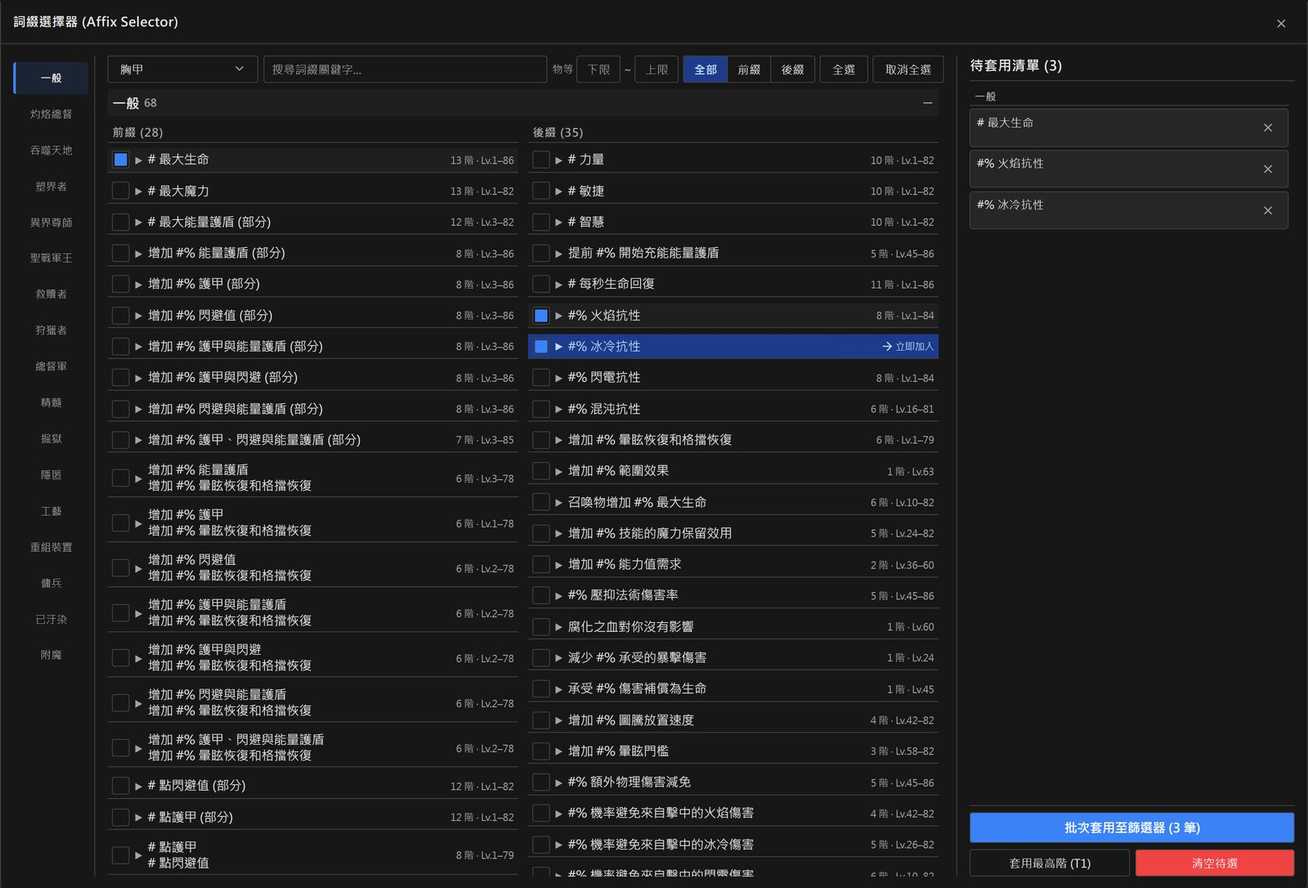
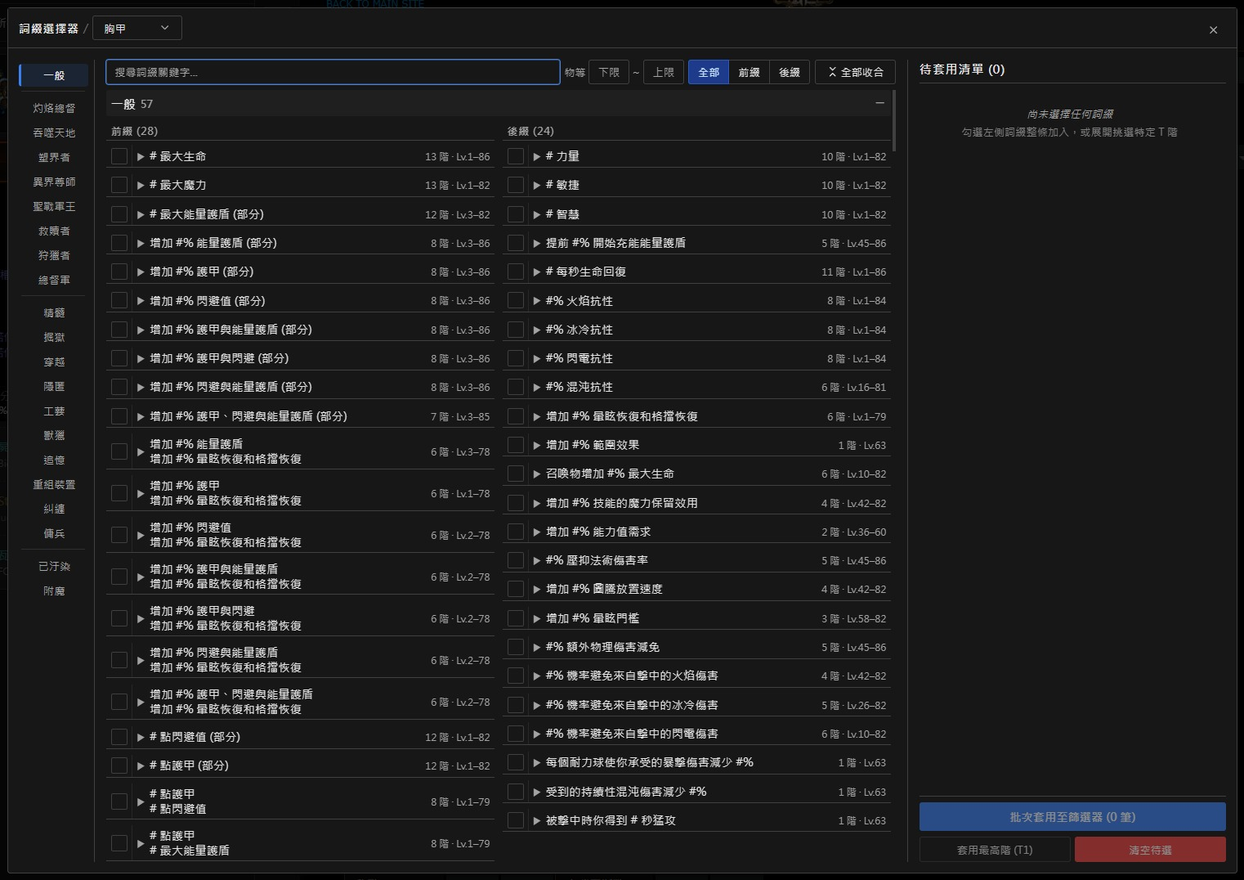
docs(poexd): add v1.10-v1.12 screenshots and guide sections

diff --git a/poexd/index.html b/poexd/index.html
@@ -4,7 +4,7 @@
 <meta charset="utf-8">
 <meta name="viewport" content="width=device-width, initial-scale=1">
 <title>PoeXD Extension 使用教學 — yehshune</title>
-<meta name="description" content="PoeXD Extension 完整使用教學：安裝、線上搜尋主控台、常用詞綴群組、詞綴篩選與 T 階、PoB 購物清單、書籤管理與市集漢化。">
+<meta name="description" content="PoeXD Extension 完整使用教學：安裝、線上搜尋主控台、搜尋結果看板、釘選物品、常用詞綴群組、詞綴篩選與 T 階、PoB 購物清單、書籤管理、11 款外觀主題與市集漢化。">
 <meta property="og:title" content="PoeXD Extension 使用教學">
 <meta property="og:description" content="Path of Exile 官方交易市集輔助擴充套件的完整使用說明。">
 <meta property="og:image" content="https://yehshune.github.io/assets/poexd/promo-marquee-1400x560.png">
@@ -65,12 +65,12 @@
         <span class="meta-code">03 / LIVE SEARCH</span>
         <strong>線上搜尋主控台</strong>
       </a>
-      <a href="#affix">
-        <span class="meta-code">05 / AFFIX &amp; POB</span>
-        <strong>詞綴選擇與 T 階</strong>
+      <a href="#result-board">
+        <span class="meta-code">07 / RESULT BOARD</span>
+        <strong>搜尋結果看板</strong>
       </a>
       <a href="#translation">
-        <span class="meta-code">09 / LOCALIZE</span>
+        <span class="meta-code">11 / LOCALIZE</span>
         <strong>國際服市集漢化</strong>
       </a>
     </div>
@@ -81,7 +81,7 @@
   <nav class="toc" aria-label="本頁目錄">
     <div class="toc-head">
       <span>MANUAL INDEX</span>
-      <span>11 節</span>
+      <span>13 節</span>
     </div>
     <div class="toc-progress" aria-hidden="true"><div class="toc-progress-bar" id="toc-progress-bar"></div></div>
     <ol>
@@ -91,11 +91,13 @@
       <li><a href="#stat-groups"><span class="num">04</span>常用詞綴與預覽</a></li>
       <li><a href="#affix"><span class="num">05</span>詞綴篩選與 T 階</a></li>
       <li><a href="#results"><span class="num">06</span>搜尋結果強化</a></li>
-      <li><a href="#pob"><span class="num">07</span>PoB 購物清單</a></li>
-      <li><a href="#bookmarks"><span class="num">08</span>書籤與歷史紀錄</a></li>
-      <li><a href="#translation"><span class="num">09</span>市集漢化</a></li>
-      <li><a href="#settings"><span class="num">10</span>設定與快捷鍵</a></li>
-      <li><a href="#faq"><span class="num">11</span>常見問題</a></li>
+      <li><a href="#result-board"><span class="num">07</span>搜尋結果看板</a></li>
+      <li><a href="#pinned"><span class="num">08</span>釘選物品</a></li>
+      <li><a href="#pob"><span class="num">09</span>PoB 購物清單</a></li>
+      <li><a href="#bookmarks"><span class="num">10</span>書籤與歷史紀錄</a></li>
+      <li><a href="#translation"><span class="num">11</span>市集漢化</a></li>
+      <li><a href="#settings"><span class="num">12</span>設定與外觀主題</a></li>
+      <li><a href="#faq"><span class="num">13</span>常見問題</a></li>
     </ol>
   </nav>
 
@@ -140,9 +142,9 @@
       <div class="split-doc">
         <div>
           <ol class="steps">
-            <li>開啟 <a href="https://www.pathofexile.com/trade" target="_blank" rel="noopener noreferrer">官方交易網站 ↗</a>（台服、國服也支援），頁面左側會出現 PoeXD 側邊工具列（可在設定的「面板位置」改到右側）；收合時只會留下一個 PoeXD 標誌。</li>
-            <li>工具列的分頁分別對應書籤、歷史紀錄、常用詞綴群組、PoB 購物清單與線上搜尋主控台；點分頁即可切換。</li>
-            <li>點瀏覽器右上角的 PoeXD 圖示，可個別開關十項功能模組（T 階快捷按鈕、詞綴選擇器、價格換算、市集漢化等）。</li>
+            <li>開啟 <a href="https://www.pathofexile.com/trade" target="_blank" rel="noopener noreferrer">官方交易網站 ↗</a>（台服、國服也支援），頁面左側會出現 PoeXD 側邊工具列（可在設定的「面板位置」改到右側）；收合時只會留下一個可上下拖曳的 PoeXD 標誌。</li>
+            <li>首次安裝展開側邊欄會自動開始導覽；工具列的分頁分別對應書籤、歷史紀錄、常用詞綴群組、PoB 購物清單、釘選物品、搜尋結果看板與線上搜尋主控台。</li>
+            <li>在交易頁點擊瀏覽器右上角的 PoeXD 圖示可直接切換顯示／收合側邊欄；各項功能模組可在側邊欄的「系統設定 → 側邊欄模組」中個別開關（非交易頁點擊圖示則提供各服市集快速連結）。</li>
           </ol>
           <figure class="shot">
             <button type="button" class="shot-btn" data-lightbox-src="../assets/poexd/collapsed.jpg" data-lightbox-alt="交易網站左側縮起的 PoeXD 標誌按鈕" data-lightbox-caption="工具列收合時僅保留側邊標誌按鈕，點擊即可展開。">
@@ -153,10 +155,10 @@
         </div>
 
         <figure class="shot" style="margin:0">
-          <button type="button" class="shot-btn" data-lightbox-src="../assets/poexd/popup.jpg" data-lightbox-alt="PoeXD 模組開關面板，列出 T 階快捷按鈕、詞綴選擇器、價格換算、市集漢化等開關" data-lightbox-caption="點瀏覽器右上角的 PoeXD 擴充套件圖示，可個別開關功能模組。">
-            <img src="../assets/poexd/popup.jpg" width="300" height="598" alt="PoeXD 模組開關面板，列出 T 階快捷按鈕、詞綴選擇器、價格換算、市集漢化等開關">
+          <button type="button" class="shot-btn" data-lightbox-src="../assets/poexd/settings.jpg" data-lightbox-alt="PoeXD 系統設定頁，可透過分類導覽或搜尋快速調整市集漢化、外觀主題與功能模組開關" data-lightbox-caption="在側邊欄「系統設定」可搜尋設定並個別開關功能模組。">
+            <img src="../assets/poexd/settings.jpg" width="442" height="740" alt="PoeXD 系統設定頁，可透過分類導覽或搜尋快速調整市集漢化、外觀主題與功能模組開關">
           </button>
-          <figcaption><span>點擴充套件圖示可個別開關功能模組。</span><span class="shot-zoom-hint">點擊放大</span></figcaption>
+          <figcaption><span>在側邊欄「系統設定」可個別開關功能模組。</span><span class="shot-zoom-hint">點擊放大</span></figcaption>
         </figure>
       </div>
     </section>
@@ -164,12 +166,12 @@
     <section id="live-search">
       <span class="meta-code sec-num">03 / LIVE SEARCH CONSOLE</span>
       <h2>線上搜尋主控台</h2>
-      <p>在單一分頁集中監聽多組即時搜尋（Live Search），斷線自動重連，有新物品上架時即時顯示並可播放提示音。</p>
+      <p>在單一分頁集中監聽多組即時搜尋（Live Search），斷線自動重連，有新物品上架時即時顯示，並支援官方提示音與背景桌面通知。</p>
       <ol class="steps">
         <li>開啟線上搜尋主控台，可「從書籤挑選」要監聽的搜尋，或「輸入搜尋網址」直接貼上交易網站的搜尋連結。</li>
-        <li>連線會依書籤資料夾分組，可批次啟用或停止；點選單一連線則能只看該組結果。</li>
-        <li>主控台會即時顯示官方 API 速率狀態，避免監聽太多組而被暫時限制連線。</li>
-        <li>關掉瀏覽器再打開時，可一鍵恢復上次的連線組合。</li>
+        <li>連線會依書籤資料夾分組並顯示命中數，可批次啟用或停止；每筆結果卡片會標示來源連線，點擊來源標籤或單一連線就能只看該組結果，也能一鍵清空結果區而不中斷監聽。</li>
+        <li>在主控台設定可直接調整官方通知音效、音量或上傳自訂音效檔（上限 1 MB），並可開啟「背景桌面通知」（每個監聽項目獨立一張通知卡，短時間多筆自動合併，點擊即可切回主控台）。</li>
+        <li>主控台會即時顯示官方 API 速率狀態，避免監聽太多組而被暫時限制連線；重開瀏覽器可一鍵恢復上次的連線組合。</li>
       </ol>
       <figure class="shot">
         <button type="button" class="shot-btn" data-lightbox-src="../assets/poexd/live-search.jpg" data-lightbox-alt="線上搜尋主控台：左側是各組即時搜尋連線，右側是即時出現的物品結果" data-lightbox-caption="線上搜尋主控台：左側管理多組連線與速率，右側集中瀏覽新上架道具。">
@@ -189,7 +191,7 @@
       <ol class="steps">
         <li>在工具列打開「常用詞綴群組」，新增群組並加入需要的詞綴與數值門檻。</li>
         <li>在任何搜尋頁面點選群組即可疊加到目前篩選；套錯了可以一鍵復原。</li>
-        <li>群組支援分享碼與備份檔匯入、匯出，方便與朋友交換或換電腦時遷移。</li>
+        <li>群組支援原地重新命名、分享碼與備份檔匯入／匯出（匯入前提供勾選預覽），方便與朋友交換或換電腦時遷移。</li>
       </ol>
       <figure class="shot">
         <button type="button" class="shot-btn" data-lightbox-src="../assets/poexd/stat-groups.jpg" data-lightbox-alt="常用詞綴群組面板，右側篩選器已疊加總抗性群組" data-lightbox-caption="常用詞綴群組：左邊點「疊加套用」，右側官方篩選器立即多出整組條件。">
@@ -213,20 +215,20 @@
       <h2>詞綴篩選與 T 階</h2>
       <h3>詞綴選擇器</h3>
       <ol class="steps">
-        <li>在官方篩選群組旁打開詞綴選擇器，選擇物品類別，並可用「物等」區間過濾可出現詞綴。</li>
-        <li>依前綴／後綴與詞綴分類瀏覽，勾選想要的項目加入右側「待套用清單」。</li>
+        <li>在官方篩選群組旁打開詞綴選擇器，從標題列切換物品類別（含「最近使用」，並可同步套用到官方物品種類），也能用「物等」區間過濾可出現詞綴。</li>
+        <li>依前綴／後綴與詞綴來源分類瀏覽（支援全部展開／收合與全選符合項目），勾選想要的項目加入右側「待套用清單」。</li>
         <li>確認後一次批次寫入官方篩選器，不必一條一條手動輸入關鍵字。</li>
       </ol>
 
       <h3>T 階快捷按鈕</h3>
-      <p>篩選欄旁的 <code>T</code> 按鈕可直接選擇階級，自動帶入該階級數值範圍；同一詞綴在該物品類別有多種來源時，可在左側切換詞綴分組。詞綴亦支援拖曳排序或移至其他篩選群組。<span class="nowrap">PoE 2</span> 的碑牌、換界石與範圍珠寶同樣支援。</p>
+      <p>篩選欄旁的 <code>T</code> 按鈕可直接點擊單一階級或複選階級範圍、點數值快速填入；同一詞綴在該物品類別有多種來源時，可在左側切換詞綴分組。支援 <span class="nowrap">PoE 1</span> 追憶、穿越、糾纏與異界固定詞，以及 <span class="nowrap">PoE 2</span> 的碑牌、換界石、範圍珠寶與聖域詞綴；詞綴亦可拖曳排序或移至其他篩選群組。</p>
 
       <div class="shot-pair is-landscape">
         <figure class="shot">
-          <button type="button" class="shot-btn" data-lightbox-src="../assets/poexd/affix.jpg" data-lightbox-alt="詞綴選擇器：左側分類，中間是前綴與後綴清單，右側是待套用清單" data-lightbox-caption="詞綴選擇器：依物品類別與物等瀏覽前綴／後綴並批次套用。">
-            <img src="../assets/poexd/affix.jpg" width="800" height="543" alt="詞綴選擇器：左側分類，中間是前綴與後綴清單，右側是待套用清單">
+          <button type="button" class="shot-btn" data-lightbox-src="../assets/poexd/affix.jpg" data-lightbox-alt="詞綴選擇器：標題列可切換物品類別，左側分類，中間是前綴與後綴清單，右側是待套用清單" data-lightbox-caption="詞綴選擇器：依物品類別與物等瀏覽前綴／後綴並批次套用。">
+            <img src="../assets/poexd/affix.jpg" width="1522" height="1076" alt="詞綴選擇器：標題列可切換物品類別，左側分類，中間是前綴與後綴清單，右側是待套用清單">
           </button>
-          <figcaption><span>詞綴選擇器。</span><span class="shot-zoom-hint">點擊放大</span></figcaption>
+          <figcaption><span>詞綴選擇器（支援標題列類別切換與最新詞綴來源）。</span><span class="shot-zoom-hint">點擊放大</span></figcaption>
         </figure>
         <figure class="shot">
           <button type="button" class="shot-btn" data-lightbox-src="../assets/poexd/tier.jpg" data-lightbox-alt="胸甲的「+# 最大生命」T 階選單：左側可切換四種詞綴分組，右側列出 T1 到 T11 的數值範圍" data-lightbox-caption="T 階選單：同一個詞綴有多種來源時（例如胸甲生命），左側可切換分組。">
@@ -261,13 +263,61 @@
       </figure>
     </section>
 
+    <section id="result-board">
+      <span class="meta-code sec-num">07 / RESULT BOARD</span>
+      <h2>搜尋結果看板</h2>
+      <p>在一般搜尋頁把目前取得的結果集中到側邊欄（從側邊欄分頁或官方結果數旁的「看板」按鈕開啟），不會改動官方結果列表。</p>
+      <ol class="steps">
+        <li><strong>物品清單</strong>：依關鍵字、價格區間、隱藏已售出與只看可直購篩選並排序，點一下即可捲動定位並高亮官方結果列；可直接前往藏身處或釘選。</li>
+        <li><strong>賣家清單與倉庫分組</strong>：依可直購件數與換算總價排序，找出能在同一間藏身處一次買齊多件的賣家，並依倉庫分頁分組標出格位座標。</li>
+        <li><strong>倉庫搜尋 regex</strong>：勾選同一賣家要買的物品後顯示小計，一鍵複製 <code>regex</code> 貼進對方倉庫搜尋框，同時標出所有目標物品（無法區分時會提示警告）。</li>
+        <li><strong>批次載入與自動重整</strong>：透過官方「載入更多」逐批（可記憶每次筆數）或一次載入全部（上限 100 筆）；前往藏身處連結過期時會自動重新整理再前往。</li>
+      </ol>
+      <div class="shot-pair is-portrait">
+        <figure class="shot">
+          <button type="button" class="shot-btn" data-lightbox-src="../assets/poexd/result-board-items.jpg" data-lightbox-alt="搜尋結果看板的物品清單：列出本次搜尋取得的物品、換算價格與篩選排序控制" data-lightbox-caption="搜尋結果看板（物品清單）：集中篩選、排序並一鍵定位到官方結果列。">
+            <img src="../assets/poexd/result-board-items.jpg" width="442" height="740" alt="搜尋結果看板的物品清單：列出本次搜尋取得的物品、換算價格與篩選排序控制">
+          </button>
+          <figcaption><span>物品清單：集中篩選價格區間與批次載入。</span><span class="shot-zoom-hint">點擊放大</span></figcaption>
+        </figure>
+        <figure class="shot">
+          <button type="button" class="shot-btn" data-lightbox-src="../assets/poexd/result-board-sellers.jpg" data-lightbox-alt="搜尋結果看板的賣家清單：展開同一賣家的多件可直購物品，依倉庫分組並產生倉庫搜尋 regex" data-lightbox-caption="搜尋結果看板（賣家清單）：依倉庫分組並一鍵複製倉庫搜尋 regex 一次買齊。">
+            <img src="../assets/poexd/result-board-sellers.jpg" width="442" height="740" alt="搜尋結果看板的賣家清單：展開同一賣家的多件可直購物品，依倉庫分組並產生倉庫搜尋 regex">
+          </button>
+          <figcaption><span>賣家清單：倉庫分組與一鍵複製倉庫搜尋 regex。</span><span class="shot-zoom-hint">點擊放大</span></figcaption>
+        </figure>
+      </div>
+      <div class="note"><p>搜尋結果看板不保存歷史資料，換成下一個搜尋就會重新整理；想長期保留下來慢慢比價的裝備請使用「釘選物品」。</p></div>
+    </section>
+
+    <section id="pinned">
+      <span class="meta-code sec-num">08 / PINNED ITEMS</span>
+      <h2>釘選物品</h2>
+      <div class="split-doc">
+        <div>
+          <ul>
+            <li>滑鼠移到搜尋結果卡片左上角點釘選，就能把物品連同標價、金幣手續費、賣家與上架時間存到側邊欄，以官方樣式卡片隨時展開比價。</li>
+            <li>一般搜尋、即時搜尋與線上搜尋主控台皆可使用，並支援切換「顯示所有聯盟」。</li>
+            <li>支援搜尋篩選、排序（自訂順序、最新釘選、價格高低）、拖曳調整順序或拖出取消釘選。</li>
+            <li>一口價物品可直接點擊前往藏身處，已賣出的物品會標示「已售出」；每個遊戲版本最多保存 50 筆於本機瀏覽器。</li>
+          </ul>
+        </div>
+        <figure class="shot" style="margin:0">
+          <button type="button" class="shot-btn" data-lightbox-src="../assets/poexd/pinned-items.jpg" data-lightbox-alt="釘選物品面板：展開官方樣式卡片顯示詞綴與金幣手續費，下方物品可顯示已售出狀態" data-lightbox-caption="釘選物品：以官方樣式卡片回頭比價，顯示手續費、已售出標記與前往藏身處按鈕。">
+            <img src="../assets/poexd/pinned-items.jpg" width="442" height="740" alt="釘選物品面板：展開官方樣式卡片顯示詞綴與金幣手續費，下方物品可顯示已售出狀態">
+          </button>
+          <figcaption><span>釘選物品：官方樣式卡片比價與已售出標記。</span><span class="shot-zoom-hint">點擊放大</span></figcaption>
+        </figure>
+      </div>
+    </section>
+
     <section id="pob">
-      <span class="meta-code sec-num">07 / POB SHOPPING LIST</span>
+      <span class="meta-code sec-num">09 / POB SHOPPING LIST</span>
       <h2>PoB 購物清單</h2>
       <ol class="steps">
         <li>在工具列打開「PoB 購物清單」，貼上 <span class="nowrap">Path of Building</span> 匯出代碼，或 <code>poe.ninja</code>、<code>pobb.in</code>、<code>pastebin</code> 分享網址。</li>
-        <li>清單會依裝備欄位與技能寶石分組整理，可同時保存多份 build；若 build 含多組裝備套裝或技能組，可從上方選單即時切換。</li>
-        <li>在彈出預覽微調條件後，一鍵搜尋、加入書籤或直接送進線上搜尋主控台。</li>
+        <li>清單會依裝備、藥劑、珠寶與寶石分類整理，可同時保存多份 build；若 build 含多組裝備套裝或技能組，可從上方選單即時切換。</li>
+        <li>在彈出預覽可一鍵「改用總和詞綴」（抗性、生命、能力值）或將數值條件放寬 10%（<code>-10%</code>），微調後一鍵搜尋、加入書籤或直接送進線上搜尋主控台。</li>
       </ol>
       <div class="note"><p>從 <code>pobb.in</code>、<code>pastebin</code> 匯入需要另外授權存取該網站。代碼只存在你的瀏覽器，不會上傳。開啟市集漢化並授權 <code>pobb.in</code> 後，<code>pobb.in</code> 分享頁也會自動顯示中文。</p></div>
 
@@ -288,7 +338,7 @@
     </section>
 
     <section id="bookmarks">
-      <span class="meta-code sec-num">08 / BOOKMARKS &amp; HISTORY</span>
+      <span class="meta-code sec-num">10 / BOOKMARKS &amp; HISTORY</span>
       <h2>書籤與歷史紀錄</h2>
       <div class="split-doc">
         <div>
@@ -311,14 +361,13 @@
     </section>
 
     <section id="translation">
-      <span class="meta-code sec-num">09 / TRADE LOCALIZATION</span>
+      <span class="meta-code sec-num">11 / TRADE LOCALIZATION</span>
       <h2>市集漢化</h2>
-      <p>把國際服英文市集的介面、篩選器與搜尋結果顯示成中文。僅改變畫面顯示，不會更動實際送出的搜尋內容。</p>
+      <p>把國際服英文市集的介面、篩選器、提示訊息與搜尋結果顯示成中文。僅改變畫面顯示，不會更動實際送出的搜尋內容。</p>
       <ol class="steps">
-        <li>在 PoeXD 設定中把「語言」設為繁體中文（採台服用語）或簡體中文（採國服用語）。</li>
-        <li>開啟「市集漢化」（於設定頁或點瀏覽器右上角 PoeXD 圖示皆可）。</li>
-        <li>想同時看到英文原文時可再打開「中英並列」：詞綴、通貨與物品下拉選單會並列顯示，打中文或英文都搜得到。</li>
-        <li>重新整理交易頁面後即會套用。</li>
+        <li>在 PoeXD 設定的「語言與市集漢化」中，把語言設為繁體中文（採台服用語）或簡體中文（採國服用語）。</li>
+        <li>開啟「市集漢化」，重新整理交易頁面即會套用；新賽季或遊戲改版時可在設定點「立即更新」手動重新抓取最新漢化資料。</li>
+        <li>想同時看到英文原文時，可開啟「篩選下拉選單」中英並列（打中文或英文都搜得到），以及「搜尋結果詞綴」在翻譯詞綴下方附上淡色英文原文。</li>
       </ol>
 
       <div class="compare-stage" data-compare>
@@ -370,30 +419,33 @@
     </section>
 
     <section id="settings">
-      <span class="meta-code sec-num">10 / SETTINGS &amp; SHORTCUTS</span>
-      <h2>設定與快捷鍵</h2>
-      <div class="split-doc">
-        <div>
-          <ul>
-            <li>主題、工具列停靠位置（左／右側）、寬度、緊湊模式與介面縮放比例都可以自訂。</li>
-            <li>道具名稱與篩選欄支援模糊搜尋（輸入時自動加上 <code>~</code>）。</li>
-            <li>可自訂聚焦／清除搜尋欄的快捷鍵：在設定中點快捷鍵欄位後按下想要的按鍵，<kbd>Backspace</kbd> 清除、<kbd>Esc</kbd> 取消。</li>
-            <li>可開啟「使用道具名稱替換網頁標題」，同時開多個分頁時能一眼認出對應道具。</li>
-            <li>擴充功能介面提供繁體中文、簡體中文與英文。</li>
-          </ul>
-          <div class="note"><p>若將側邊欄「選單寬度」設為「自訂」，即可直接拖曳側邊欄邊緣調整最適合螢幕尺寸的寬度；搭配「使用緊湊介面」可再多露出一列清單項目。</p></div>
-        </div>
-        <figure class="shot" style="margin:0">
-          <button type="button" class="shot-btn" data-lightbox-src="../assets/poexd/settings.jpg" data-lightbox-alt="PoeXD 設定頁" data-lightbox-caption="PoeXD 系統設定頁：可調整主題、漢化模式、側邊欄位置與縮放比例。">
-            <img src="../assets/poexd/settings.jpg" width="338" height="640" alt="PoeXD 設定頁">
+      <span class="meta-code sec-num">12 / SETTINGS &amp; THEMES</span>
+      <h2>設定、外觀主題與快捷鍵</h2>
+      <ul>
+        <li><strong>單頁可搜尋設定與模組開關</strong>：透過頂部分類導覽或搜尋快速找到設定項目，可個別開關側邊欄與頁面增強模組，並備份／還原或重設（同時包含 <span class="nowrap">PoE 1</span> 與 <span class="nowrap">PoE 2</span> 設定）。</li>
+        <li><strong>11 款內建主題與自訂配色</strong>：內建深色與淺色共 11 款主題，也可在「自訂」調整背景色、表面色、文字色、主色、危險色與 4 種圓角風格，提供即時元件預覽並支援複製／匯入 JSON 分享配色。</li>
+        <li><strong>版面與導覽</strong>：直接拖曳側邊欄內側邊緣即可調整寬度，並支援切換左右側、介面縮放比例、使用導覽與「在頁面上指出」標示。</li>
+        <li><strong>搜尋與快捷鍵</strong>：道具名稱與篩選欄支援模糊搜尋（自動加 <code>~</code>）、自訂聚焦／清除快捷鍵（<kbd>Backspace</kbd> 清除、<kbd>Esc</kbd> 取消），以及將分頁標題換成目前搜尋的道具名稱。</li>
+        <li>擴充功能介面提供繁體中文、簡體中文與英文；詞綴資料涵蓋官方交易網站 11 種語言。</li>
+      </ul>
+      <div class="shot-pair is-portrait">
+        <figure class="shot">
+          <button type="button" class="shot-btn" data-lightbox-src="../assets/poexd/settings.jpg" data-lightbox-alt="PoeXD 新版系統設定頁：包含頂部分類導覽、搜尋、市集漢化與手動更新快取" data-lightbox-caption="新版系統設定頁：單頁可搜尋設計，支援分類跳轉、模組開關、備份還原與手動更新漢化快取。">
+            <img src="../assets/poexd/settings.jpg" width="442" height="740" alt="PoeXD 新版系統設定頁：包含頂部分類導覽、搜尋、市集漢化與手動更新快取">
           </button>
-          <figcaption><span>PoeXD 設定頁。</span><span class="shot-zoom-hint">點擊放大</span></figcaption>
+          <figcaption><span>單頁可搜尋設定與市集漢化快取更新。</span><span class="shot-zoom-hint">點擊放大</span></figcaption>
+        </figure>
+        <figure class="shot">
+          <button type="button" class="shot-btn" data-lightbox-src="../assets/poexd/theme-custom.jpg" data-lightbox-alt="PoeXD 外觀與版面設定：11 款內建主題與自訂色碼、圓角、即時元件預覽及 JSON 匯入匯出" data-lightbox-caption="外觀主題與自訂編輯器：11 款內建主題、5 組自訂色碼、圓角切換與 JSON 配色分享。">
+            <img src="../assets/poexd/theme-custom.jpg" width="442" height="760" alt="PoeXD 外觀與版面設定：11 款內建主題與自訂色碼、圓角、即時元件預覽及 JSON 匯入匯出">
+          </button>
+          <figcaption><span>11 款內建主題、自訂配色圓角與 JSON 分享。</span><span class="shot-zoom-hint">點擊放大</span></figcaption>
         </figure>
       </div>
     </section>
 
     <section id="faq">
-      <span class="meta-code sec-num">11 / FAQ</span>
+      <span class="meta-code sec-num">13 / FAQ</span>
       <h2>常見問題</h2>
       <div class="faq-list">
         <details class="faq">

diff --git a/index.html b/index.html
@@ -232,12 +232,12 @@
 
         <div class="companion-grid">
           <figure class="companion-fig">
-            <img src="assets/poexd/popup.jpg" width="300" height="598" alt="PoeXD 擴充套件彈出控制面板，列出十項可獨立開關的功能模組">
-            <figcaption>十項功能模組可依個人習慣獨立開關。</figcaption>
+            <img src="assets/poexd/result-board-sellers.jpg" width="442" height="740" alt="PoeXD 搜尋結果看板賣家檢視：依倉庫分組並產生倉庫搜尋 regex">
+            <figcaption>搜尋結果看板：找出同藏身處多件直購賣家並複製倉庫 regex。</figcaption>
           </figure>
           <figure class="companion-fig">
-            <img src="assets/poexd/pob.jpg" width="338" height="640" alt="PoeXD PoB 購物清單側欄：依武器、護甲、飾品欄位列出配裝清單">
-            <figcaption>匯入 PoB build 後依欄位逐件追蹤裝備。</figcaption>
+            <img src="assets/poexd/theme-custom.jpg" width="442" height="760" alt="PoeXD 外觀主題與自訂編輯器：11 款主題、自訂色碼與圓角預覽">
+            <figcaption>11 款內建外觀主題與自訂配色／圓角編輯器。</figcaption>
           </figure>
         </div>
       </div>
